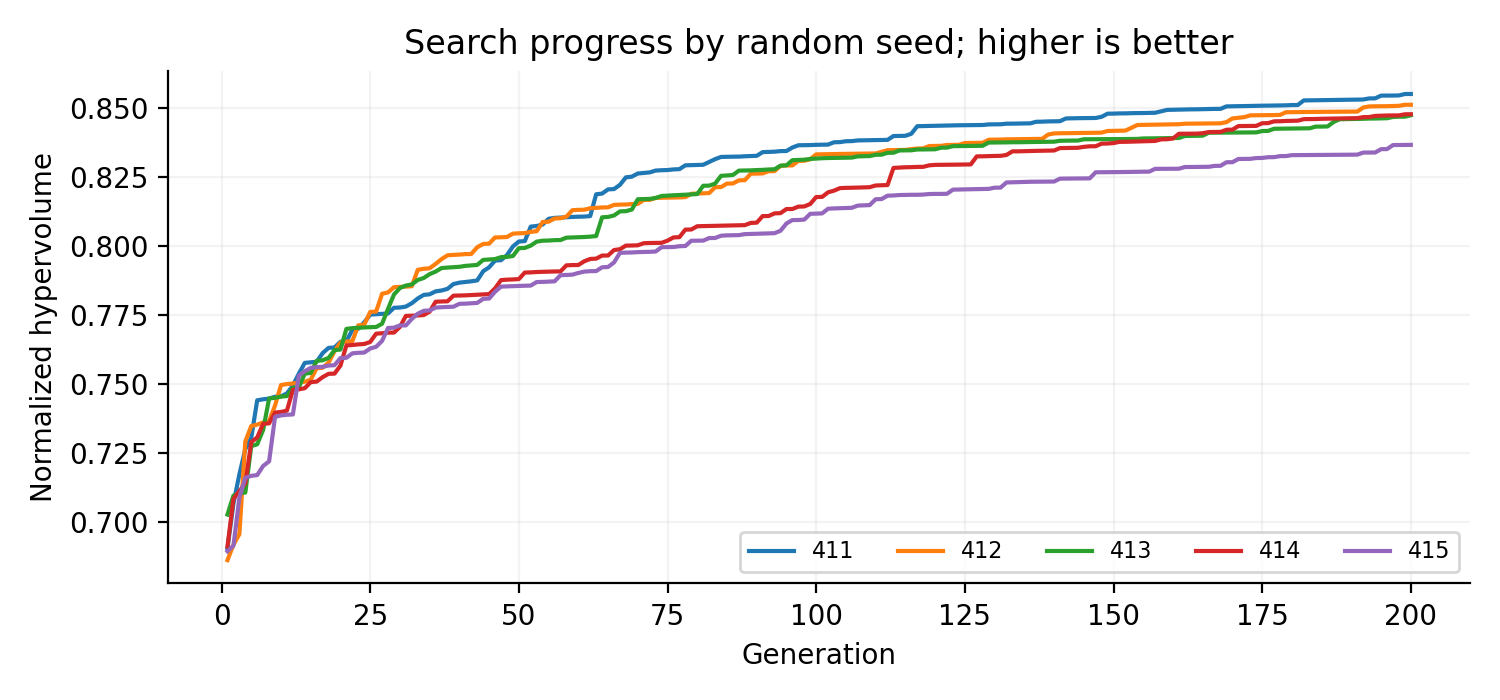
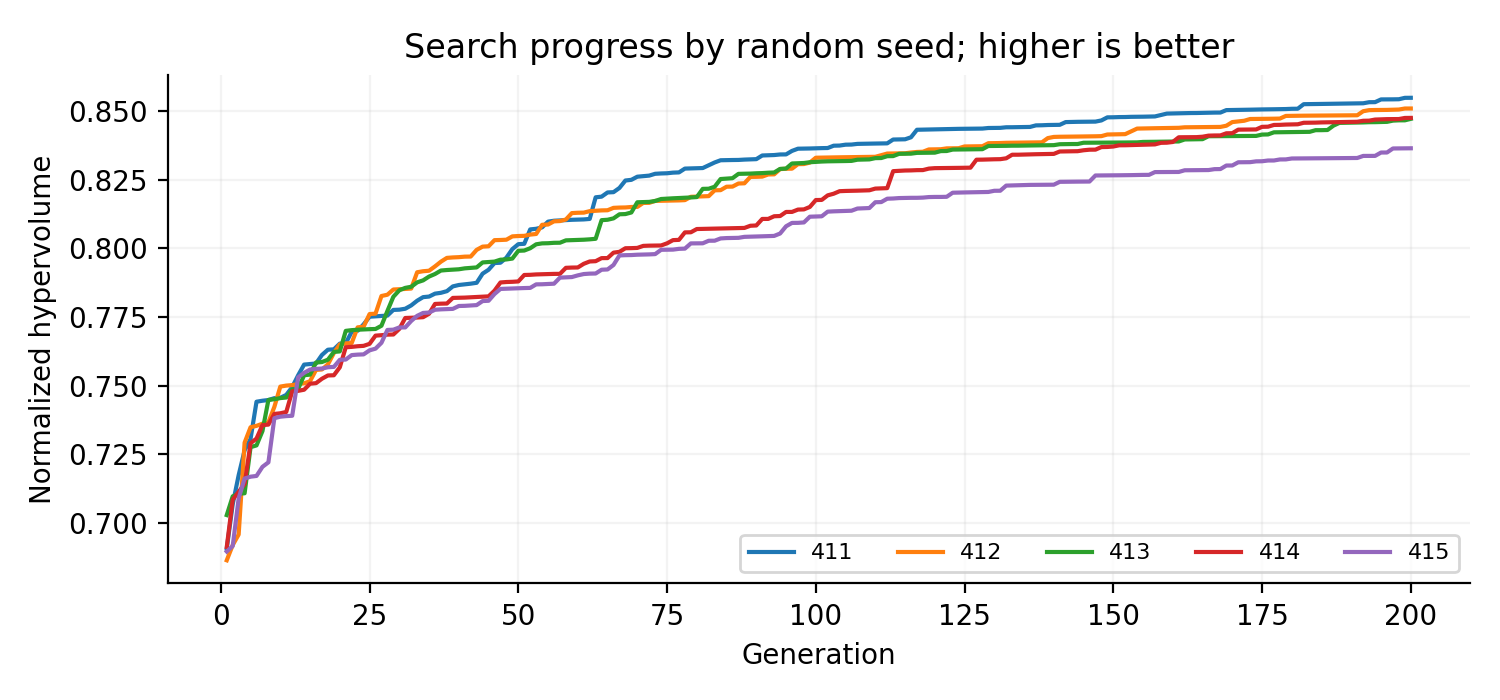
Edit make figures

diff --git a/make_figures.py b/make_figures.py
@@ -1,142 +1,123 @@
-"""Plot the selected layout, pooled trade-off and search histories."""
+"""Make the report figures from saved results.
+
+Run after run_nsga2.py:
+    python make_figures.py
+Outputs: figures/opening_heatmaps.png (data maps), figures/pareto.png
+(trade-off), figures/convergence.png (hypervolume) and slide_data.json.
+"""
 
 from pathlib import Path
-import pandas as pd
-import numpy as np
-import json
+import pandas as pd, numpy as np, json
 import matplotlib
 
 matplotlib.use("Agg")
 import matplotlib.pyplot as plt
 
-PROJECT_DIR = Path(__file__).resolve().parent
-RESULTS_DIR = PROJECT_DIR / "results"
-
-
-def plot_maps(grid):
-    active_mask = grid.active_demand.to_numpy().reshape(15, 15)
-    fig, axs = plt.subplots(1, 3, figsize=(12, 4.1))
-    fig.subplots_adjust(left=0.05, right=0.97, bottom=0.25, top=0.86, wspace=0.25)
-    for ax, col, title, cmap in zip(
-        axs,
-        [
-            "population_2021_sample_based_area_estimate",
-            "recorded_fires_2018_2023",
-            "risk_per_1000_over_6_years",
-        ],
-        [
-            "Estimated population",
-            "Recorded fires 2018–2023",
-            "Risk and 8 selected stations",
-        ],
-        ["YlGnBu", "YlOrRd", "magma_r"],
-    ):
-        z = grid[col].to_numpy().reshape(15, 15)
-        im = ax.imshow(
-            np.ma.masked_where(~active_mask, z),
-            origin="lower",
-            extent=[0, 15, 0, 15],
-            cmap=cmap,
-            vmin=0,
-        )
-        ax.set_title(title, fontsize=11, weight="bold")
-        ax.set_xticks([0, 5, 10, 15])
-        ax.set_yticks([0, 5, 10, 15])
-        ax.set_xlabel("Easting (km)")
-        ax.set_ylabel("Northing (km)")
-        fig.colorbar(im, ax=ax, fraction=0.046, pad=0.03)
-    z = grid[grid.nsga2_station_selected]
-    axs[2].scatter(
-        z.column_from_west - 0.5,
-        z.row_from_south - 0.5,
-        c="#13d7e7",
-        edgecolor="#17374a",
-        s=80,
-        marker="*",
-    )
-    fig.text(
-        0.05,
-        0.09,
-        "Population: estimated residents  |  Fires: six-year counts  |  Risk: six-year fires per 1,000 estimated residents",
-        fontsize=9,
-    )
-    fig.text(
-        0.05,
-        0.025,
-        "Toronto study window: 225 cells, 210 included. Stars: NSGA-II result, seed 411. Blank cells: outside-city areas or a negligible boundary sliver.",
-        fontsize=8,
-    )
-    fig.savefig(PROJECT_DIR / "opening_heatmaps.png", dpi=220, bbox_inches="tight")
-    plt.close(fig)
-
-
-def plot_front(front, summary):
-    fig, ax = plt.subplots(figsize=(7.5, 3.5))
-    ax.plot(front.stations, front.risk_weighted_distance, "o-", ms=3, color="#087e8b")
-    ax.scatter(
-        [8],
-        [summary["selected"]["risk_weighted_distance"]],
-        color="#d14d2e",
-        s=50,
-        zorder=4,
-        label="Mapped 8-station example",
-    )
-    ax.set_xlabel("Number of stations")
-    ax.set_ylabel("Risk-weighted distance")
-    ax.set_title("Pooled nondominated solutions from five runs")
-    ax.legend(fontsize=9)
-    ax.grid(alpha=0.15)
-    fig.tight_layout()
-    fig.savefig(PROJECT_DIR / "pareto.png", dpi=200)
-    plt.close(fig)
-
-
-def plot_convergence(histories):
-    fig, ax = plt.subplots(figsize=(7.5, 3.5))
-    for seed, history in histories.items():
-        ax.plot(history.generation, history.hypervolume, label=str(seed), lw=1.5)
-    ax.set_xlabel("Generation")
-    ax.set_ylabel("Normalized hypervolume")
-    ax.set_title("Search progress by random seed; higher is better")
-    ax.legend(ncol=5, fontsize=8, loc="lower right")
-    ax.grid(alpha=0.15)
-    fig.tight_layout()
-    fig.savefig(PROJECT_DIR / "convergence.png", dpi=200)
-    plt.close(fig)
-
-
-def main():
-    grid = pd.read_csv(RESULTS_DIR / "selected_layout_225_cells.csv")
-    summary = json.loads((RESULTS_DIR / "experiment_summary.json").read_text())
-    front = pd.read_csv(RESULTS_DIR / "pooled_front.csv")
-    histories = {
-        seed: pd.read_csv(RESULTS_DIR / f"history_{seed}.csv")
-        for seed in summary["configuration"]["seeds"]
+P = Path(__file__).resolve().parent
+R = P / "results"
+FIG = P / "figures"
+FIG.mkdir(exist_ok=True)
+f = pd.read_csv(R / "selected_layout_225_cells.csv")
+a = f.active_demand.to_numpy().reshape(15, 15)
+s = json.loads((R / "experiment_summary.json").read_text())
+plt.rcParams.update(
+    {
+        "font.family": "DejaVu Sans",
+        "font.size": 10,
+        "axes.spines.top": False,
+        "axes.spines.right": False,
     }
-    plt.rcParams.update(
+)
+
+# Data maps: population, fires and risk weight for each cell.
+fig, axs = plt.subplots(1, 3, figsize=(12, 4.1))
+fig.subplots_adjust(left=0.05, right=0.97, bottom=0.25, top=0.86, wspace=0.25)
+for ax, col, title, cmap in zip(
+    axs,
+    [
+        "population_2021_sample_based_area_estimate",
+        "recorded_fires_2018_2023",
+        "risk_per_1000_over_6_years",
+    ],
+    ["Estimated population", "Recorded fires 2018–2023", "Risk weight"],
+    ["YlGnBu", "YlOrRd", "magma_r"],
+):
+    z = f[col].to_numpy().reshape(15, 15)
+    im = ax.imshow(
+        np.ma.masked_where(~a, z),
+        origin="lower",
+        extent=[0, 15, 0, 15],
+        cmap=cmap,
+        vmin=0,
+    )
+    ax.set_title(title, fontsize=11, weight="bold")
+    ax.set_xticks([0, 5, 10, 15])
+    ax.set_yticks([0, 5, 10, 15])
+    ax.set_xlabel("Easting (km)")
+    ax.set_ylabel("Northing (km)")
+    fig.colorbar(im, ax=ax, fraction=0.046, pad=0.03)
+fig.text(
+    0.05,
+    0.09,
+    "Population: estimated residents  |  Fires: six-year counts  |  Risk: six-year fires per 1,000 estimated residents",
+    fontsize=9,
+)
+fig.text(
+    0.05,
+    0.025,
+    "Toronto study window: 225 cells, 210 included. Blank cells: outside-city areas or a negligible boundary sliver.",
+    fontsize=8,
+)
+fig.savefig(FIG / "opening_heatmaps.png", dpi=220, bbox_inches="tight")
+plt.close(fig)
+
+# Trade-off: best risk-weighted distance found at each station count.
+F = pd.read_csv(R / "pooled_front.csv")
+fig, ax = plt.subplots(figsize=(7.5, 3.5))
+ax.plot(F.stations, F.risk_weighted_distance, "o-", ms=3, color="#087e8b")
+ax.scatter(
+    [8],
+    [s["selected"]["risk_weighted_distance"]],
+    color="#d14d2e",
+    s=50,
+    zorder=4,
+    label="Mapped 8-station example",
+)
+ax.set_xlabel("Number of stations")
+ax.set_ylabel("Risk-weighted distance")
+ax.set_title("Pooled nondominated solutions from five runs")
+ax.legend(fontsize=9)
+ax.grid(alpha=0.15)
+fig.tight_layout()
+fig.savefig(FIG / "pareto.png", dpi=200)
+plt.close(fig)
+
+# Convergence: hypervolume per generation for each seed.
+fig, ax = plt.subplots(figsize=(7.5, 3.5))
+for seed in [411, 412, 413, 414, 415]:
+    h = pd.read_csv(R / f"history_{seed}.csv")
+    ax.plot(h.generation, h.hypervolume, label=str(seed), lw=1.5)
+ax.set_xlabel("Generation")
+ax.set_ylabel("Normalized hypervolume")
+ax.set_title("Search progress by random seed; higher is better")
+ax.legend(ncol=5, fontsize=8, loc="lower right")
+ax.grid(alpha=0.15)
+fig.tight_layout()
+fig.savefig(FIG / "convergence.png", dpi=200)
+plt.close(fig)
+
+# Data for native charts in the presentation slides.
+(P / "slide_data.json").write_text(
+    json.dumps(
         {
-            "font.family": "DejaVu Sans",
-            "font.size": 10,
-            "axes.spines.top": False,
-            "axes.spines.right": False,
+            "summary": s,
+            "front": F.to_dict("list"),
+            "histories": {
+                str(seed): pd.read_csv(R / f"history_{seed}.csv")
+                .iloc[::10]
+                .to_dict("list")
+                for seed in [411, 412, 413, 414, 415]
+            },
         }
     )
-    plot_maps(grid)
-    plot_front(front, summary)
-    plot_convergence(histories)
-    (PROJECT_DIR / "slide_data.json").write_text(
-        json.dumps(
-            {
-                "summary": summary,
-                "front": front.to_dict("list"),
-                "histories": {
-                    str(seed): history.iloc[::10].to_dict("list")
-                    for seed, history in histories.items()
-                },
-            }
-        )
-    )
-
-
-if __name__ == "__main__":
-    main()
+)
